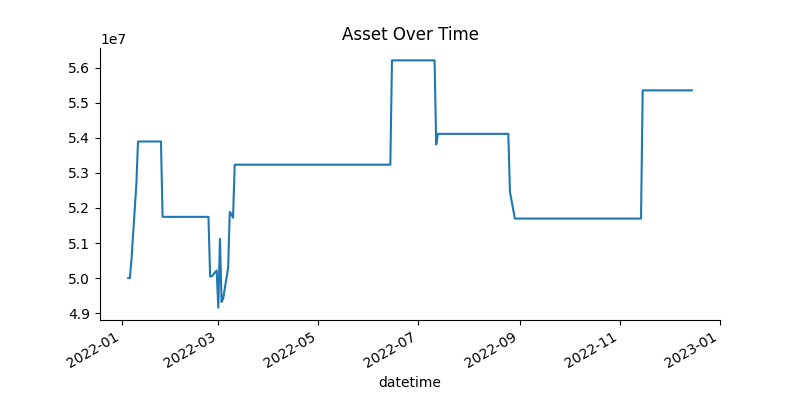
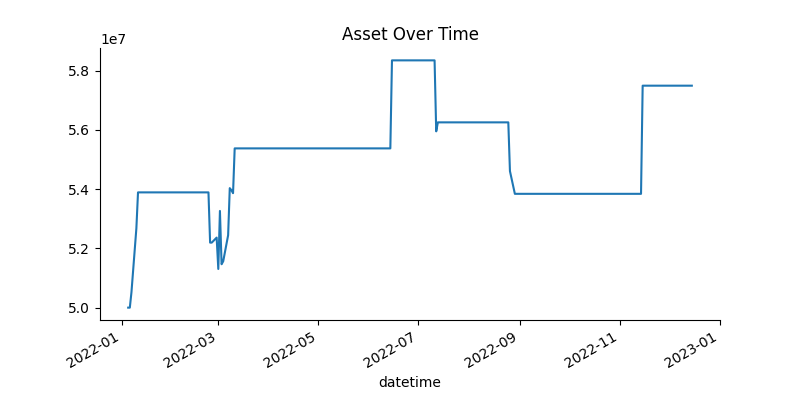
Update README.md to clarify EMA and MACD explanations, refine trading hypothesis, and enhance backtesting results; adjust best_params.json and add temp.json for configuration; modify backtest.py buy/sell signal thresholds for improved strategy performance.

diff --git a/src/strategy/backtest.py b/src/strategy/backtest.py
@@ -51,8 +51,8 @@ def backtest(ohlc, take_profit, cut_loss, initial_asset):
             continue
         macd_derivative = (macd_history[-1] - macd_history[0]) / len(macd_history)  # Calculate the derivative of MACD
         
-        buy_signal = (macd > macd_signal) and (curr_price >= ema_50) and (histogram <= 3) and (macd_derivative > 0)
-        sell_signal = (macd < macd_signal) and (curr_price <= ema_50) and (histogram >= -3) and (macd_derivative < 0)
+        buy_signal = (macd > macd_signal) and (curr_price >= ema_50) and (histogram <= 3.25) and (macd_derivative > 0)
+        sell_signal = (macd < macd_signal) and (curr_price <= ema_50) and (histogram >= -3.25) and (macd_derivative < 0)
 
         if buy_signal:
             # if not_buy == False:

diff --git a/README.md b/README.md
@@ -2,9 +2,39 @@
 The project aims to combine the Moving Average Convergence Divergence (MACD) and Exponential Moving Averages (EMA) to identify trends and generate profitable trades in the derivatives market. By utilizing EMAs for trend confirmation and MACD for momentum signals, traders can enhance entry and exit precision. Backtesting on historical data demonstrates that this strategy improves trend-capturing accuracy while minimizing false signals. 
 
 # Introduction
-Trend-following strategies in derivatives trading often struggle with false signals during sideways markets. This project addresses this challenge by developing a disciplined approach that combines MACD momentum signals with SMA trend confirmation, applied to the VN30 Index Futures.
+Trend-following strategies in derivatives trading often struggle with false signals during sideways markets. This project addresses this challenge by developing a disciplined approach that combines MACD momentum signals with EMA trend confirmation, applied to the VN30 Index Futures.
 The goal is to create a systematic, rules-based strategy that improves trade accuracy and risk-adjusted returns. Through rigorous backtesting and parameter optimization across in-sample (2024) and out-sample (2021–2022-2023) data, the method aims to validate its robustness in capturing trends while minimizing drawdowns.
 
+# Background
+
+## EMA (Exponential Moving Average)
+The Exponential Moving Average (EMA) is a weighted moving average that gives more weight to recent prices. It is calculated as:
+
+**EMA<sub>t</sub> = EMA<sub>t-1</sub> + α × (P<sub>t</sub> − EMA<sub>t-1</sub>)**
+
+Where:
+- **EMA<sub>t</sub>** is the EMA at time *t*,
+- **EMA<sub>t-1</sub>** is the previous EMA value,
+- **P<sub>t</sub>** is the current price at time *t*,
+- **α** is the smoothing factor, defined as **α = 2 / (N + 1)**,
+- **N** is the number of periods.
+
+The EMA reacts more quickly to recent price changes compared to the Simple Moving Average (SMA), making it a popular choice for identifying trends in fast-moving markets.
+
+## MACD (Moving Average Convergence Divergence)
+The Moving Average Convergence Divergence (MACD) is a momentum indicator that shows the relationship between two EMAs. It is calculated as:
+
+**MACD = EMA<sub>short</sub> − EMA<sub>long</sub>**
+
+Where:
+- **EMA<sub>short</sub>** is the short-term EMA (e.g., 12-period),
+- **EMA<sub>long</sub>** is the long-term EMA (e.g., 26-period).
+
+The MACD is often paired with a signal line, which is the EMA of the MACD (e.g., 9-period). The difference between the MACD and the signal line is represented as the MACD histogram. Key signals include:
+- **Bullish Signal**: When the MACD crosses above the signal line, indicating upward momentum.
+- **Bearish Signal**: When the MACD crosses below the signal line, indicating downward momentum.
+
+The MACD is widely used for identifying trend reversals, momentum shifts, and potential entry/exit points in trading strategies.
 
 # Trading Hypothesis
 A crossover between the MACD line and the signal line can indicate shifts in momentum, signaling potential entry or exit points. While this strategy performs well in trending markets, it often generates late entries—causing traders to miss early trend opportunities—or false signals in choppy conditions due to fluctuations around the zero line. To improve timing and reliability, we incorporate two key enhancements:
@@ -19,11 +49,13 @@ By combining these conditions, the strategy aims to capture momentum earlier in 
 **Entry Conditions:**
 
 - **A long position is opened when:**
-  - The MACD line crosses above the MACD signal line and the MACD line shows a positive derivative, indicating potential growing bullish momentum.
-  - The price is above the 50-period Exponential Moving Average (EMA), confirming an uptrend.
+  - The MACD line crosses above the MACD signal line.
+  - The MACD line shows a positive derivative, indicating potential growing bullish momentum.
+  - The current closed price is above the 50-period Exponential Moving Average (EMA), confirming an uptrend.
 
 - **A short position is opened when:**
-  - The MACD line crosses below the MACD signal line and the MACD line shows a negative derivative, signaling bearish momentum.
+  - The MACD line crosses below the MACD signal line 
+  - The MACD line shows a negative derivative, signaling bearish momentum.
   - The price is below the 50-period EMA, confirming a downtrend.
 
 **Position Sizing**
@@ -72,6 +104,7 @@ By combining these conditions, the strategy aims to capture momentum earlier in 
 - You can check `utils/download_data.py` to check and modify the SQL command.
 
 ## Data Processing
+- Extracting the all records after 9.00AM and before 14.45PM.
 - After fetching the data into a list, it is converted into a Pandas DataFrame.
 - The dataset is then saved as a CSV file for future use.
 - The datetime column is set as the index, and the price column is converted to a numeric format. The data is resampled to a daily frequency, computing Open, High, Low, and Close (OHLC) values for each day. Any days without trading activity are removed by dropping rows containing NaN values.
@@ -114,17 +147,17 @@ You can download the necessary data files from [Google Drive](https://drive.goog
   - `window_sma = 50`
   - `CUT_LOSS_THRES = -15`
   - `TAKE_PROFIT_THRES = 25`
-  - `INITIAL_ASSET = 50000000 (50 million)`
+  - `INITIAL_ASSET = 50,000,000 (50 million)`
 - **Command**:
   ```terminal
   python main.py
 - **Result**:
   - With initial parameters:
-    - Total asset after a year: 64221000.00
+    - Total asset after a year: 64,351,000
     - Total transactions: 18
-    - Return rate: 28.44%
-    - Sharpe ratio: 1.42
-    - Max Drawdown: -9.61%
+    - Return rate: 28.70%
+    - Sharpe ratio: 1.43
+    - Max Drawdown: -9.59%
   - ![Initial Parameters Result](image/before/2024.png)
 
 ## Optimization
@@ -153,11 +186,11 @@ You can download the necessary data files from [Google Drive](https://drive.goog
   - `TAKE_PROFIT_THRES = 29`
 - **Result**:
   - With optimized parameters:
-   - Total asset after a year: 73022000.00
-   - Total transaction: 15
-   - Return rate: 46.04%
-   - Sharpe ratio: 2.68
-   - Max Drawdown: -6.29%
+   - Total asset after a year: 73,102,000
+   - Total transaction: 14
+   - Return rate: 46.20%
+   - Sharpe ratio: 2.67
+   - Max Drawdown: -7.25%
 ![alt text](image/after/2024.png)
 
 # Out-sample Backtesting
@@ -175,24 +208,24 @@ You can download the necessary data files from [Google Drive](https://drive.goog
   python main.py --data_file database/2022.csv --in_sample False
   python main.py --data_file database/2023.csv --in_sample False
 - **Result of 2021**:
-   - Total asset after a year: 62450000.00
-   - Total transaction: 10
-   - Return rate: 24.90%
-   - Sharpe ratio: 1.39
-   - Max Drawdown: -7.09%
+   - Total asset after a year: 58,227,000
+   - Total transaction: 9
+   - Return rate: 16.45%
+   - Sharpe ratio: 0.94
+   - Max Drawdown: -7.62%
 ![alt text](image/after/2021.png)
 - **Result of 2022**:
-   - Total asset after a year: 55350000.00
-   - Total transaction: 10
-   - Return rate: 10.70%
-   - Sharpe ratio: 0.59
-   - Max Drawdown: -8.78%
+   - Total asset after a year: 57,497,000
+   - Total transaction: 9
+   - Return rate: 14.99%
+   - Sharpe ratio: 0.91
+   - Max Drawdown: -7.73%
 ![alt text](image/after/2022.png)
 - **Result of 2023**:
-   - Total asset after a year: 62134000.00
-   - Total transaction: 19
-   - Return rate: 24.55%
-   - Sharpe ratio: 1.02
+   - Total asset after a year: 62,808,000
+   - Total transaction: 17
+   - Return rate: 25.09%
+   - Sharpe ratio: 1.09
    - Max Drawdown: -11.90%
 ![alt text](image/after/2023.png)
 
